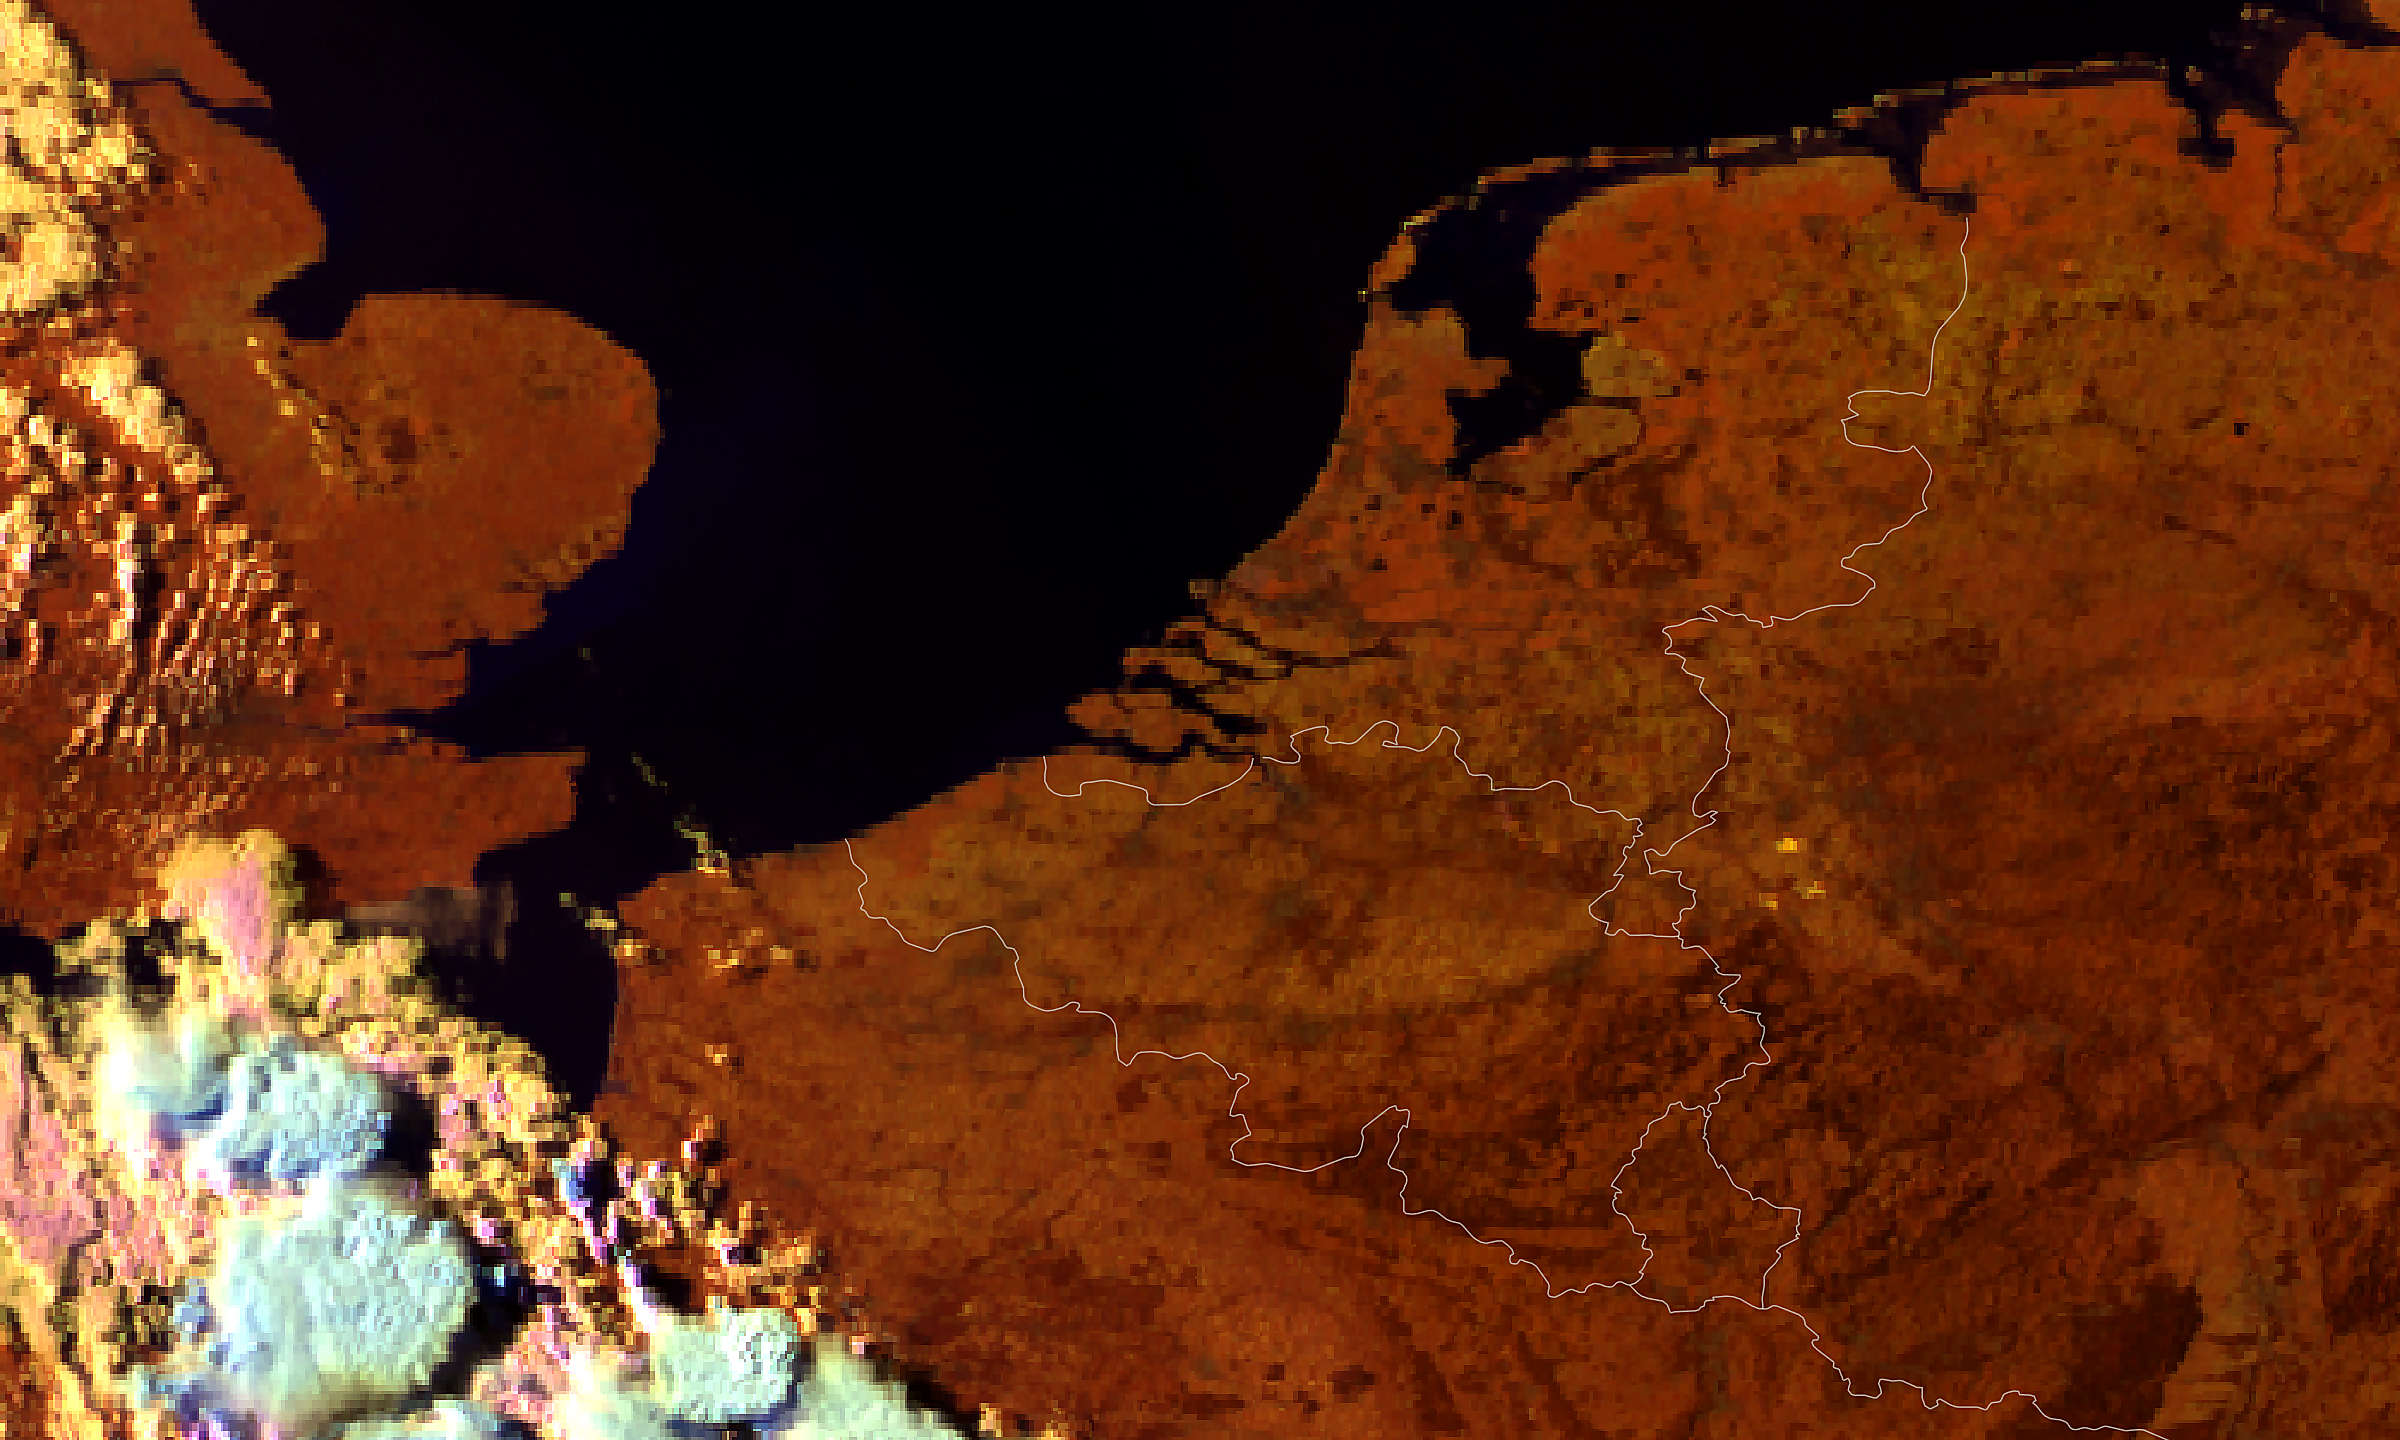
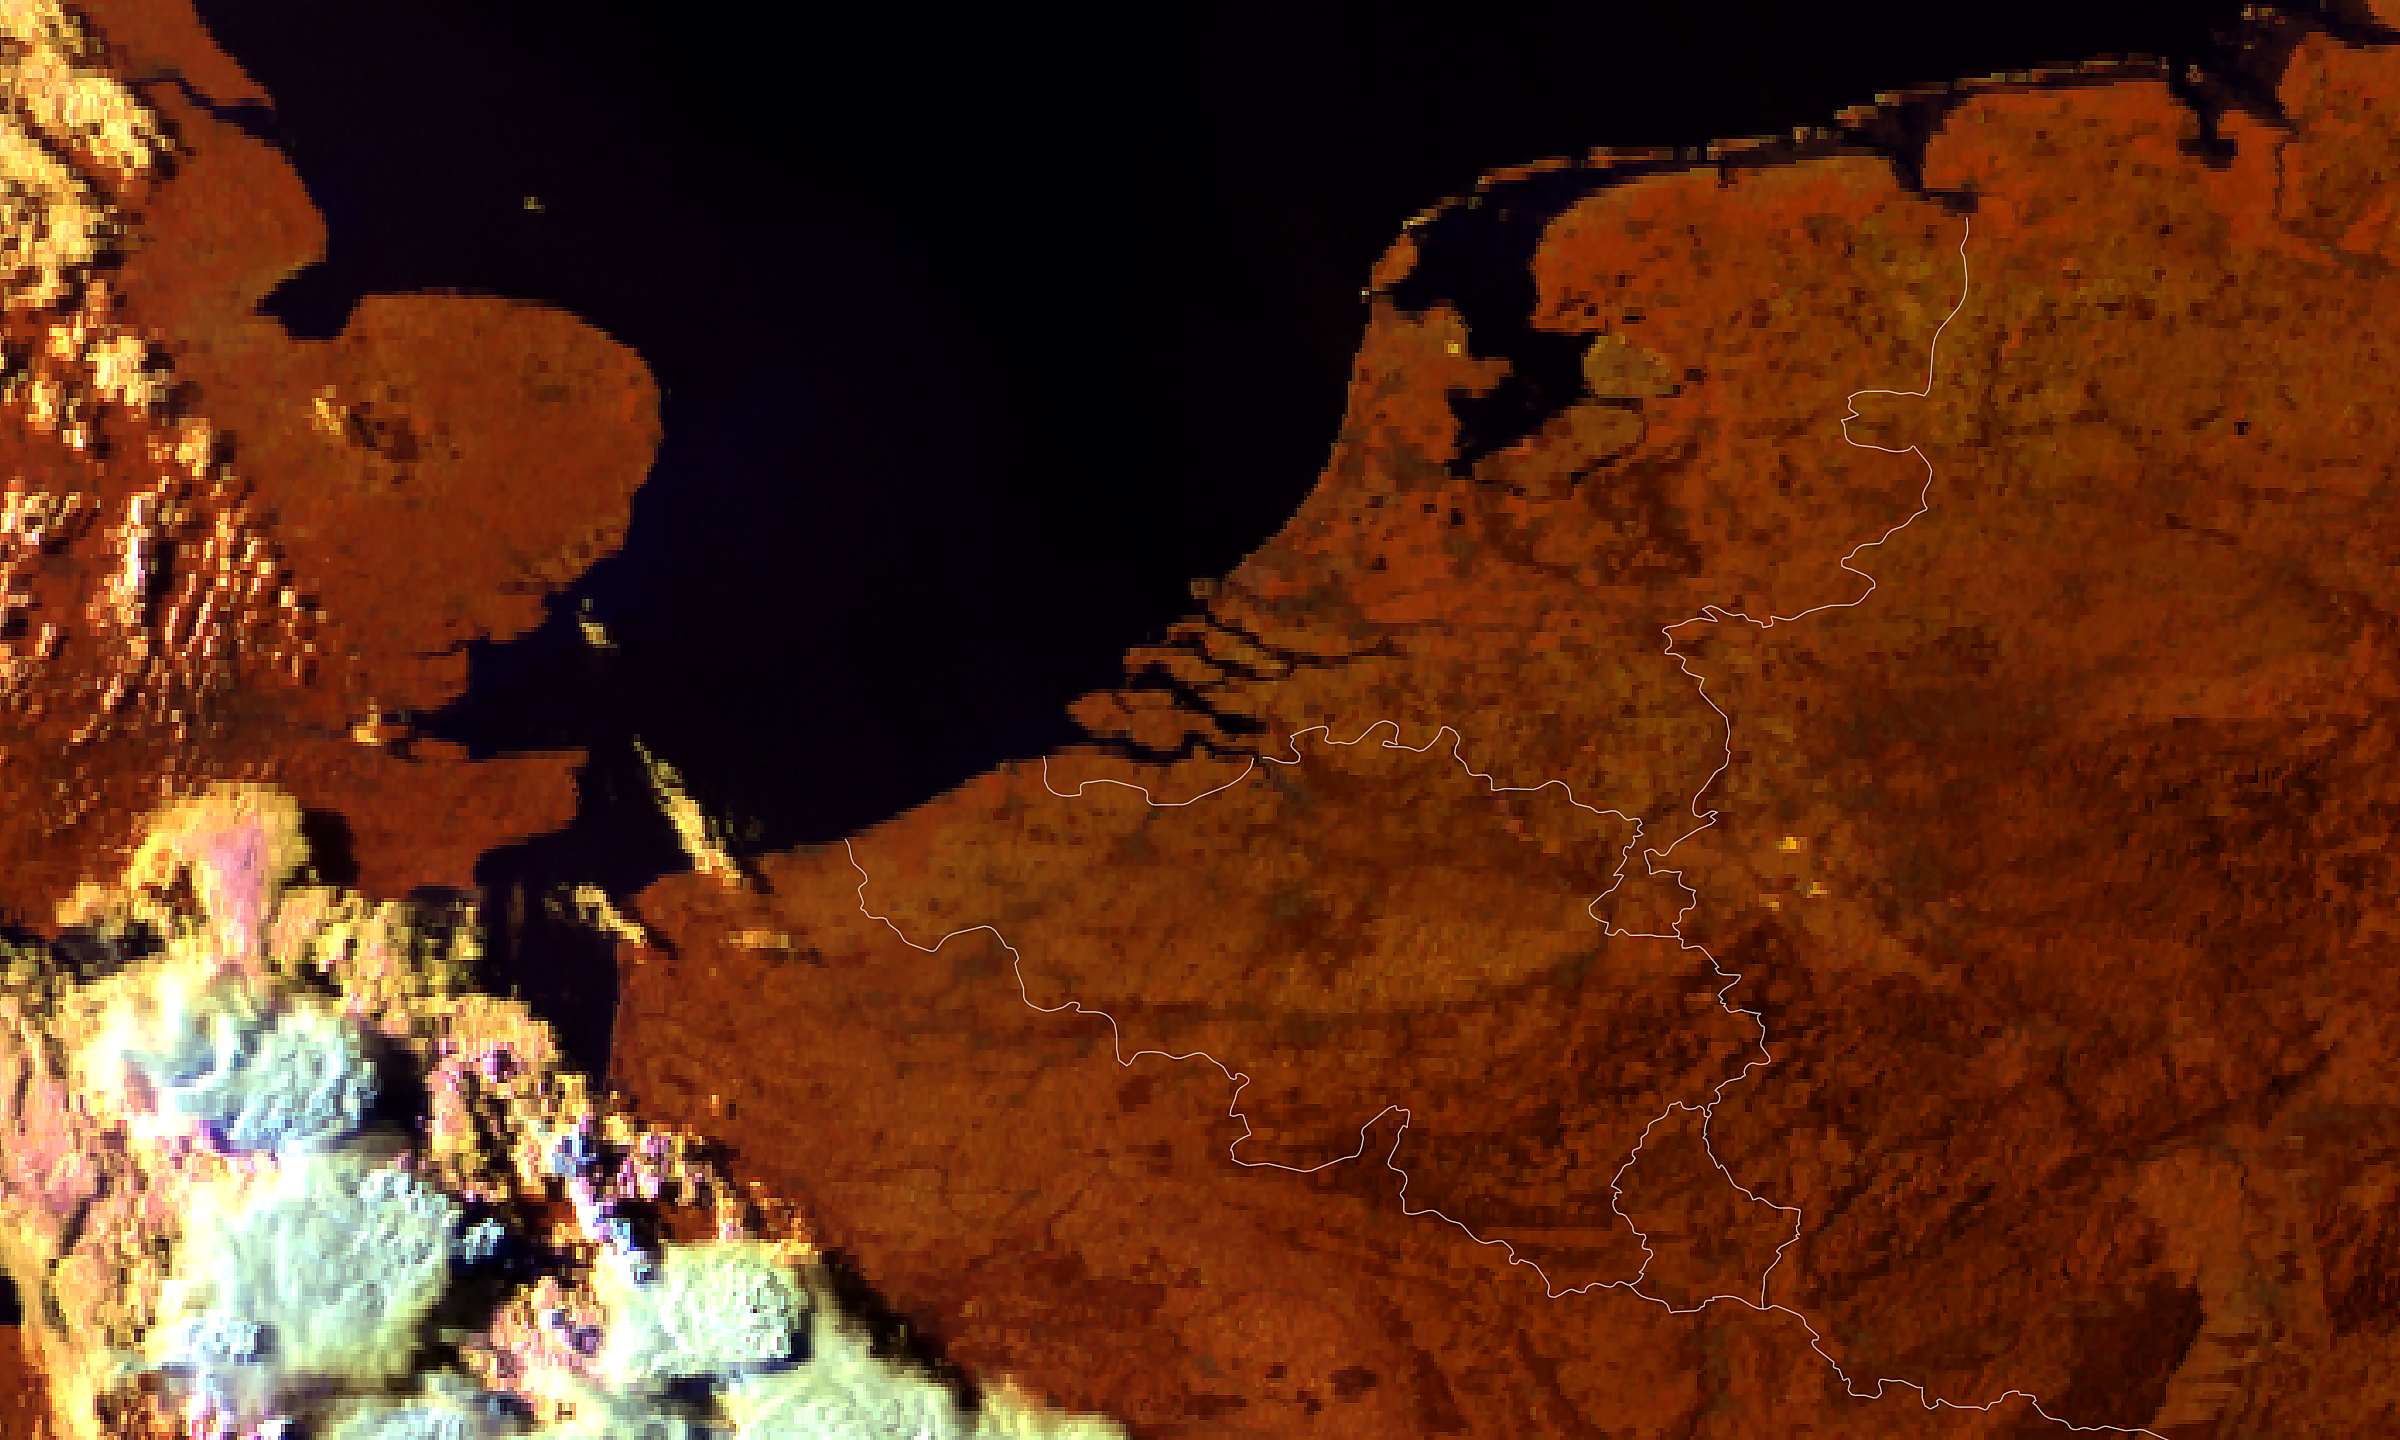
MTG Benelux satellietbeeld update 2026-05-01 19:30

diff --git a/mtg_benelux_meta.js b/mtg_benelux_meta.js
@@ -1,2 +1,2 @@
 const MTG_BENELUX_PRODUCT = "mtg_fd:rgb_cloudphase";
-const MTG_BENELUX_TIJD = "2026-05-01T16:50:00Z";
+const MTG_BENELUX_TIJD = "2026-05-01T17:10:00Z";
